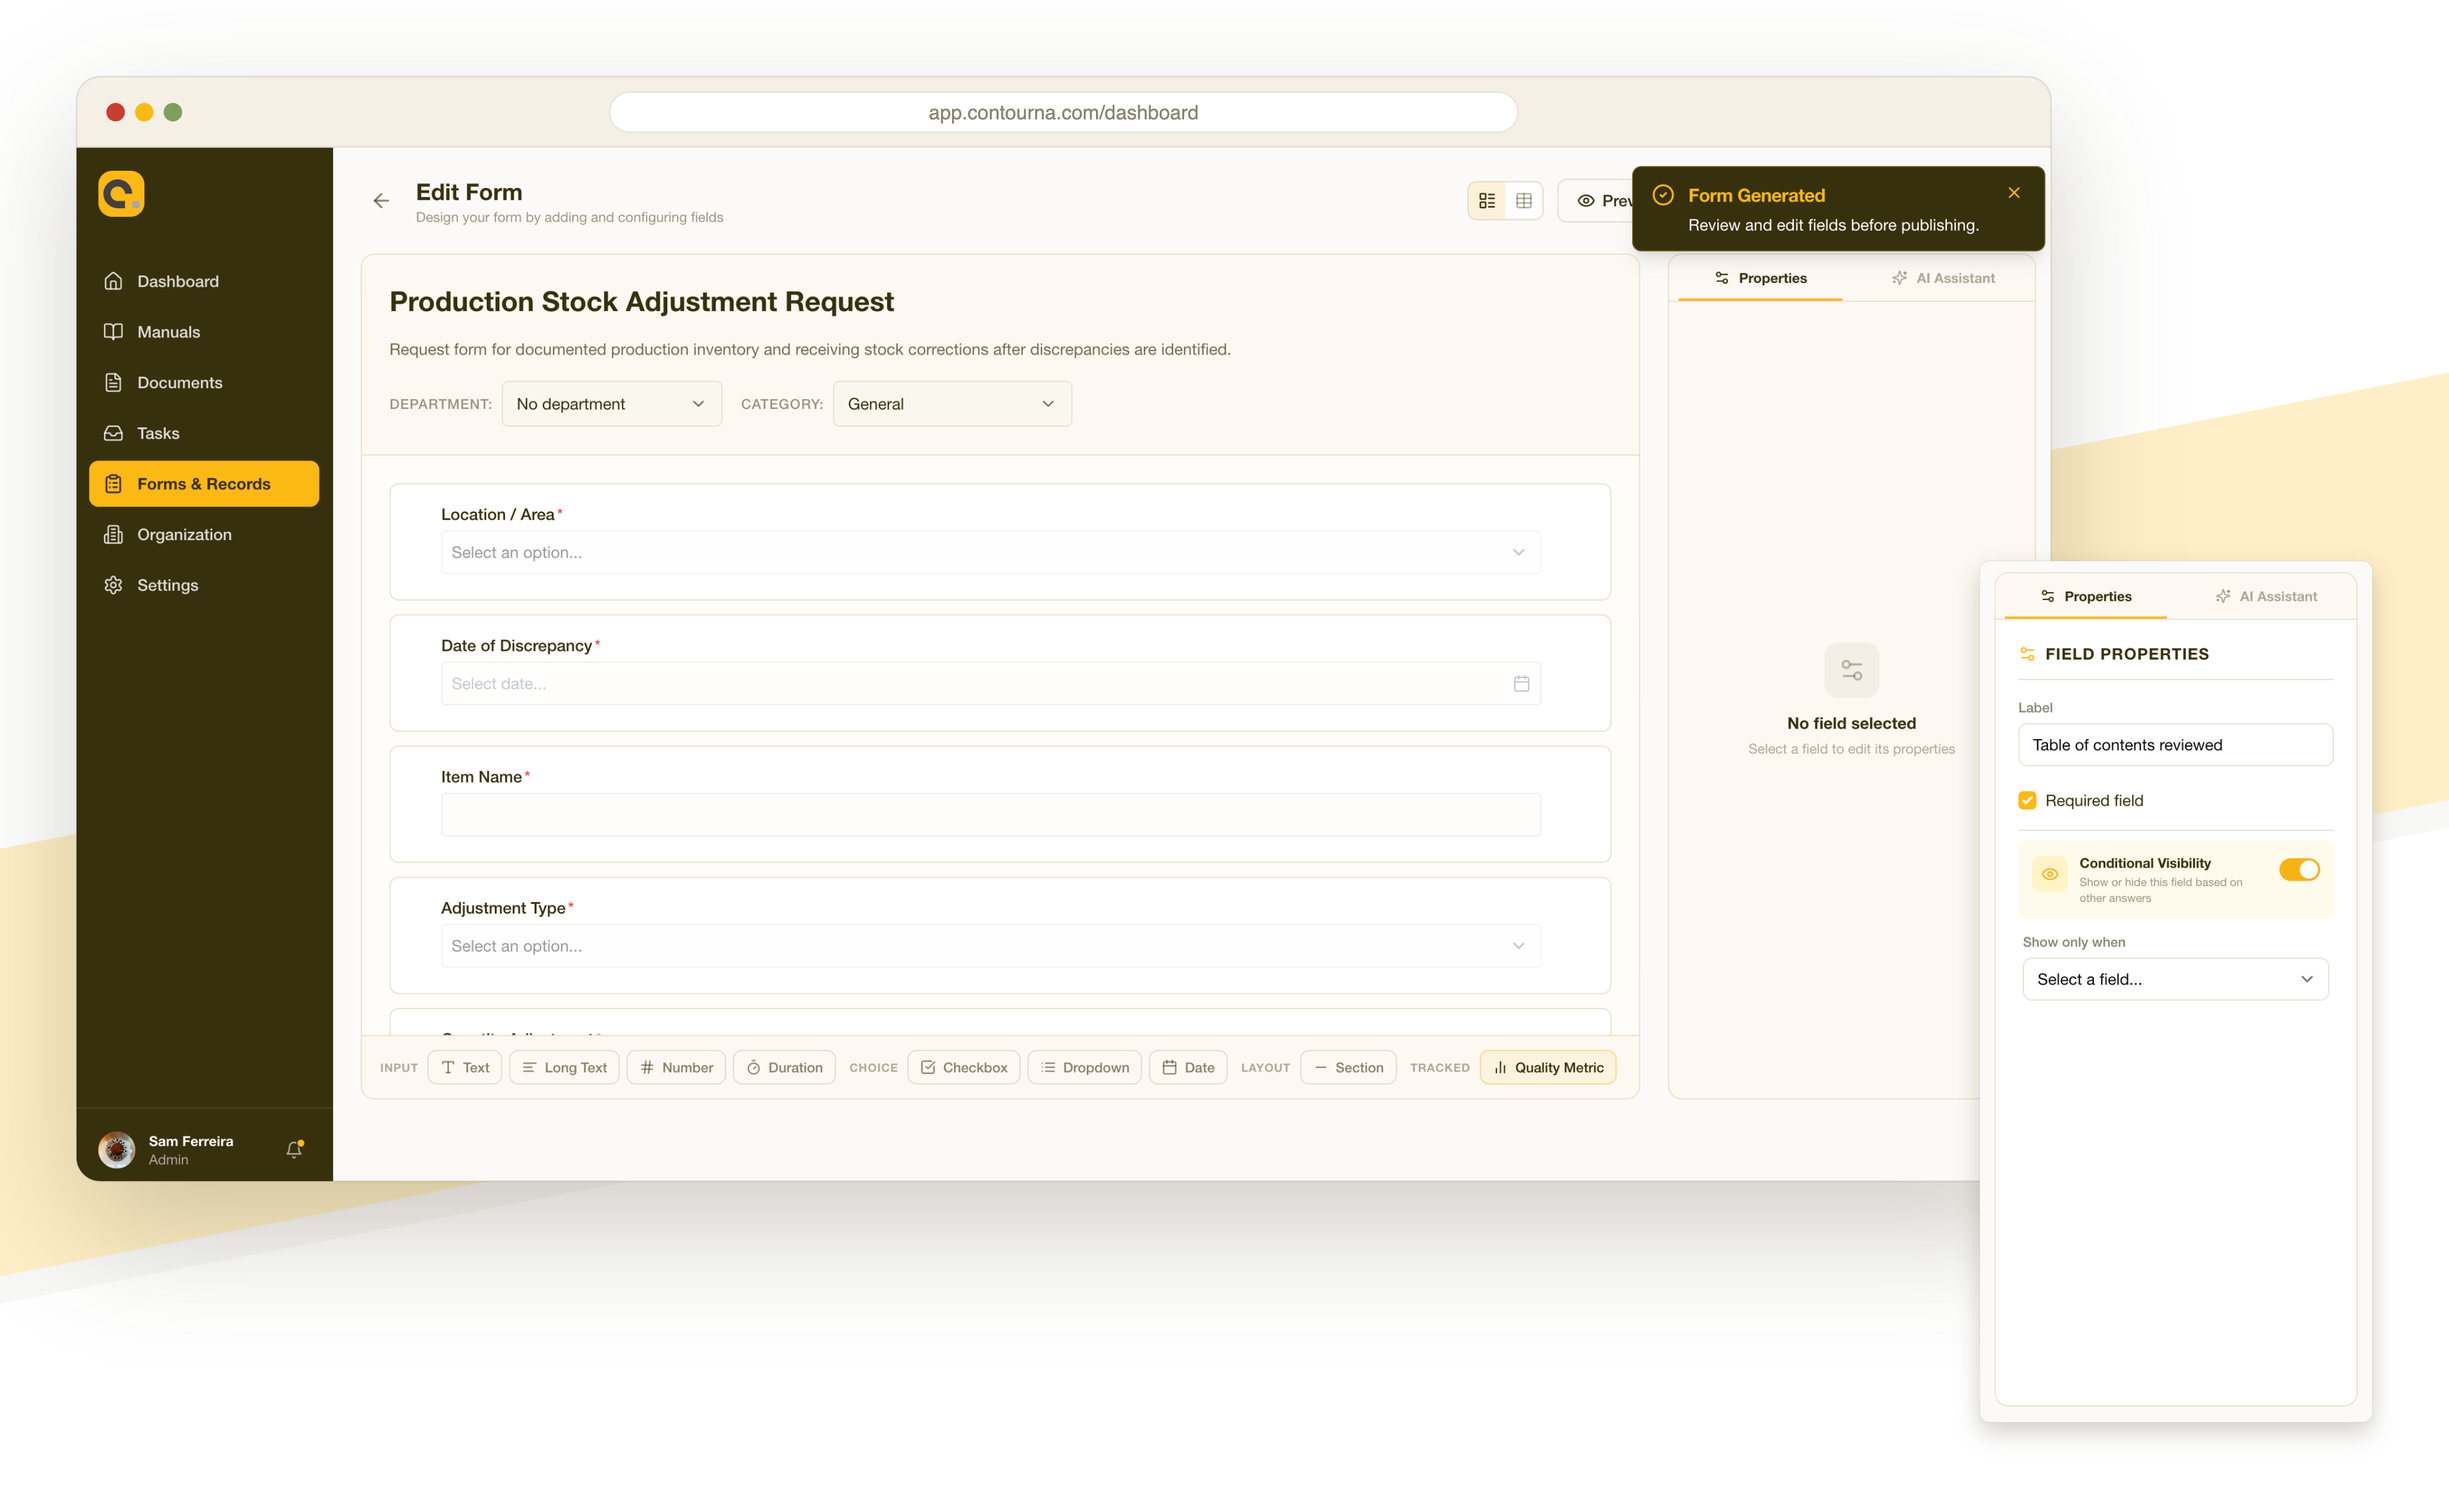
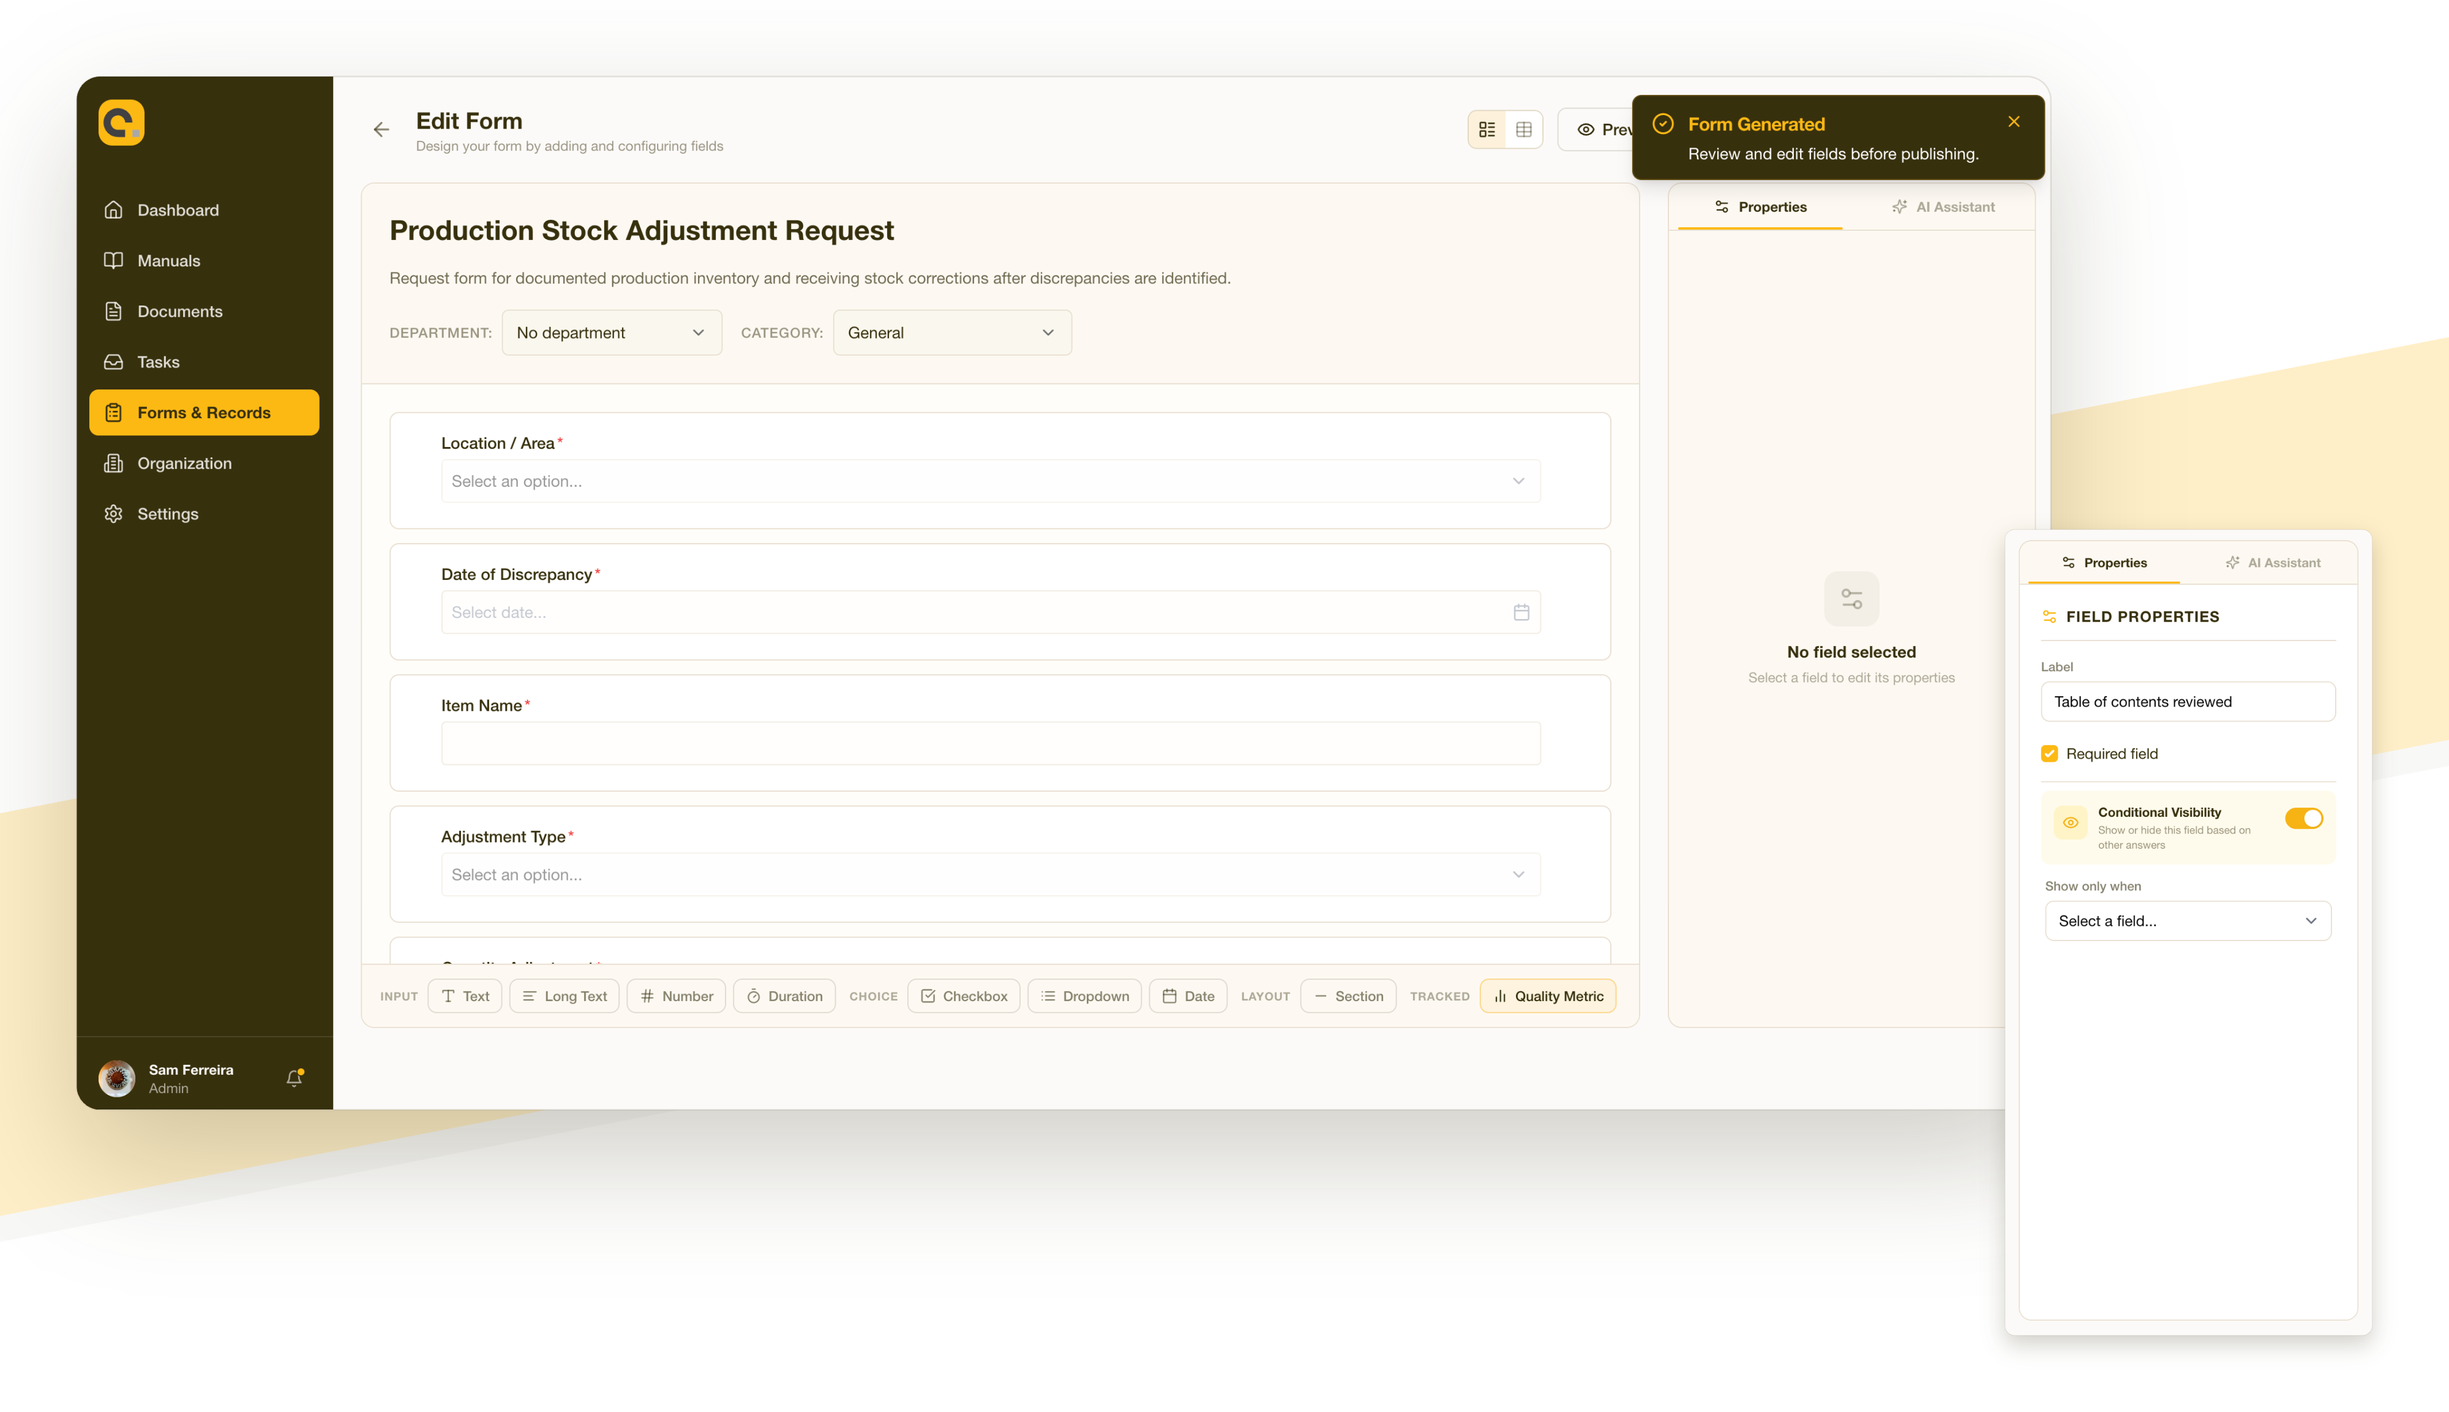
feat: update the form builder mock export
Height changes to 2306, so the props follow to keep next/image
reserving the right aspect ratio.

diff --git a/src/components/marketing/MarketingHome.tsx b/src/components/marketing/MarketingHome.tsx
@@ -606,7 +606,7 @@ function FormsBand() {
           src="/images/form-builder-mock.png"
           alt="Contourna form builder generating a production stock adjustment request form, with a field properties panel and a Form Generated confirmation"
           width={4000}
-          height={2448}
+          height={2306}
           sizes="100vw"
           bare
         />
